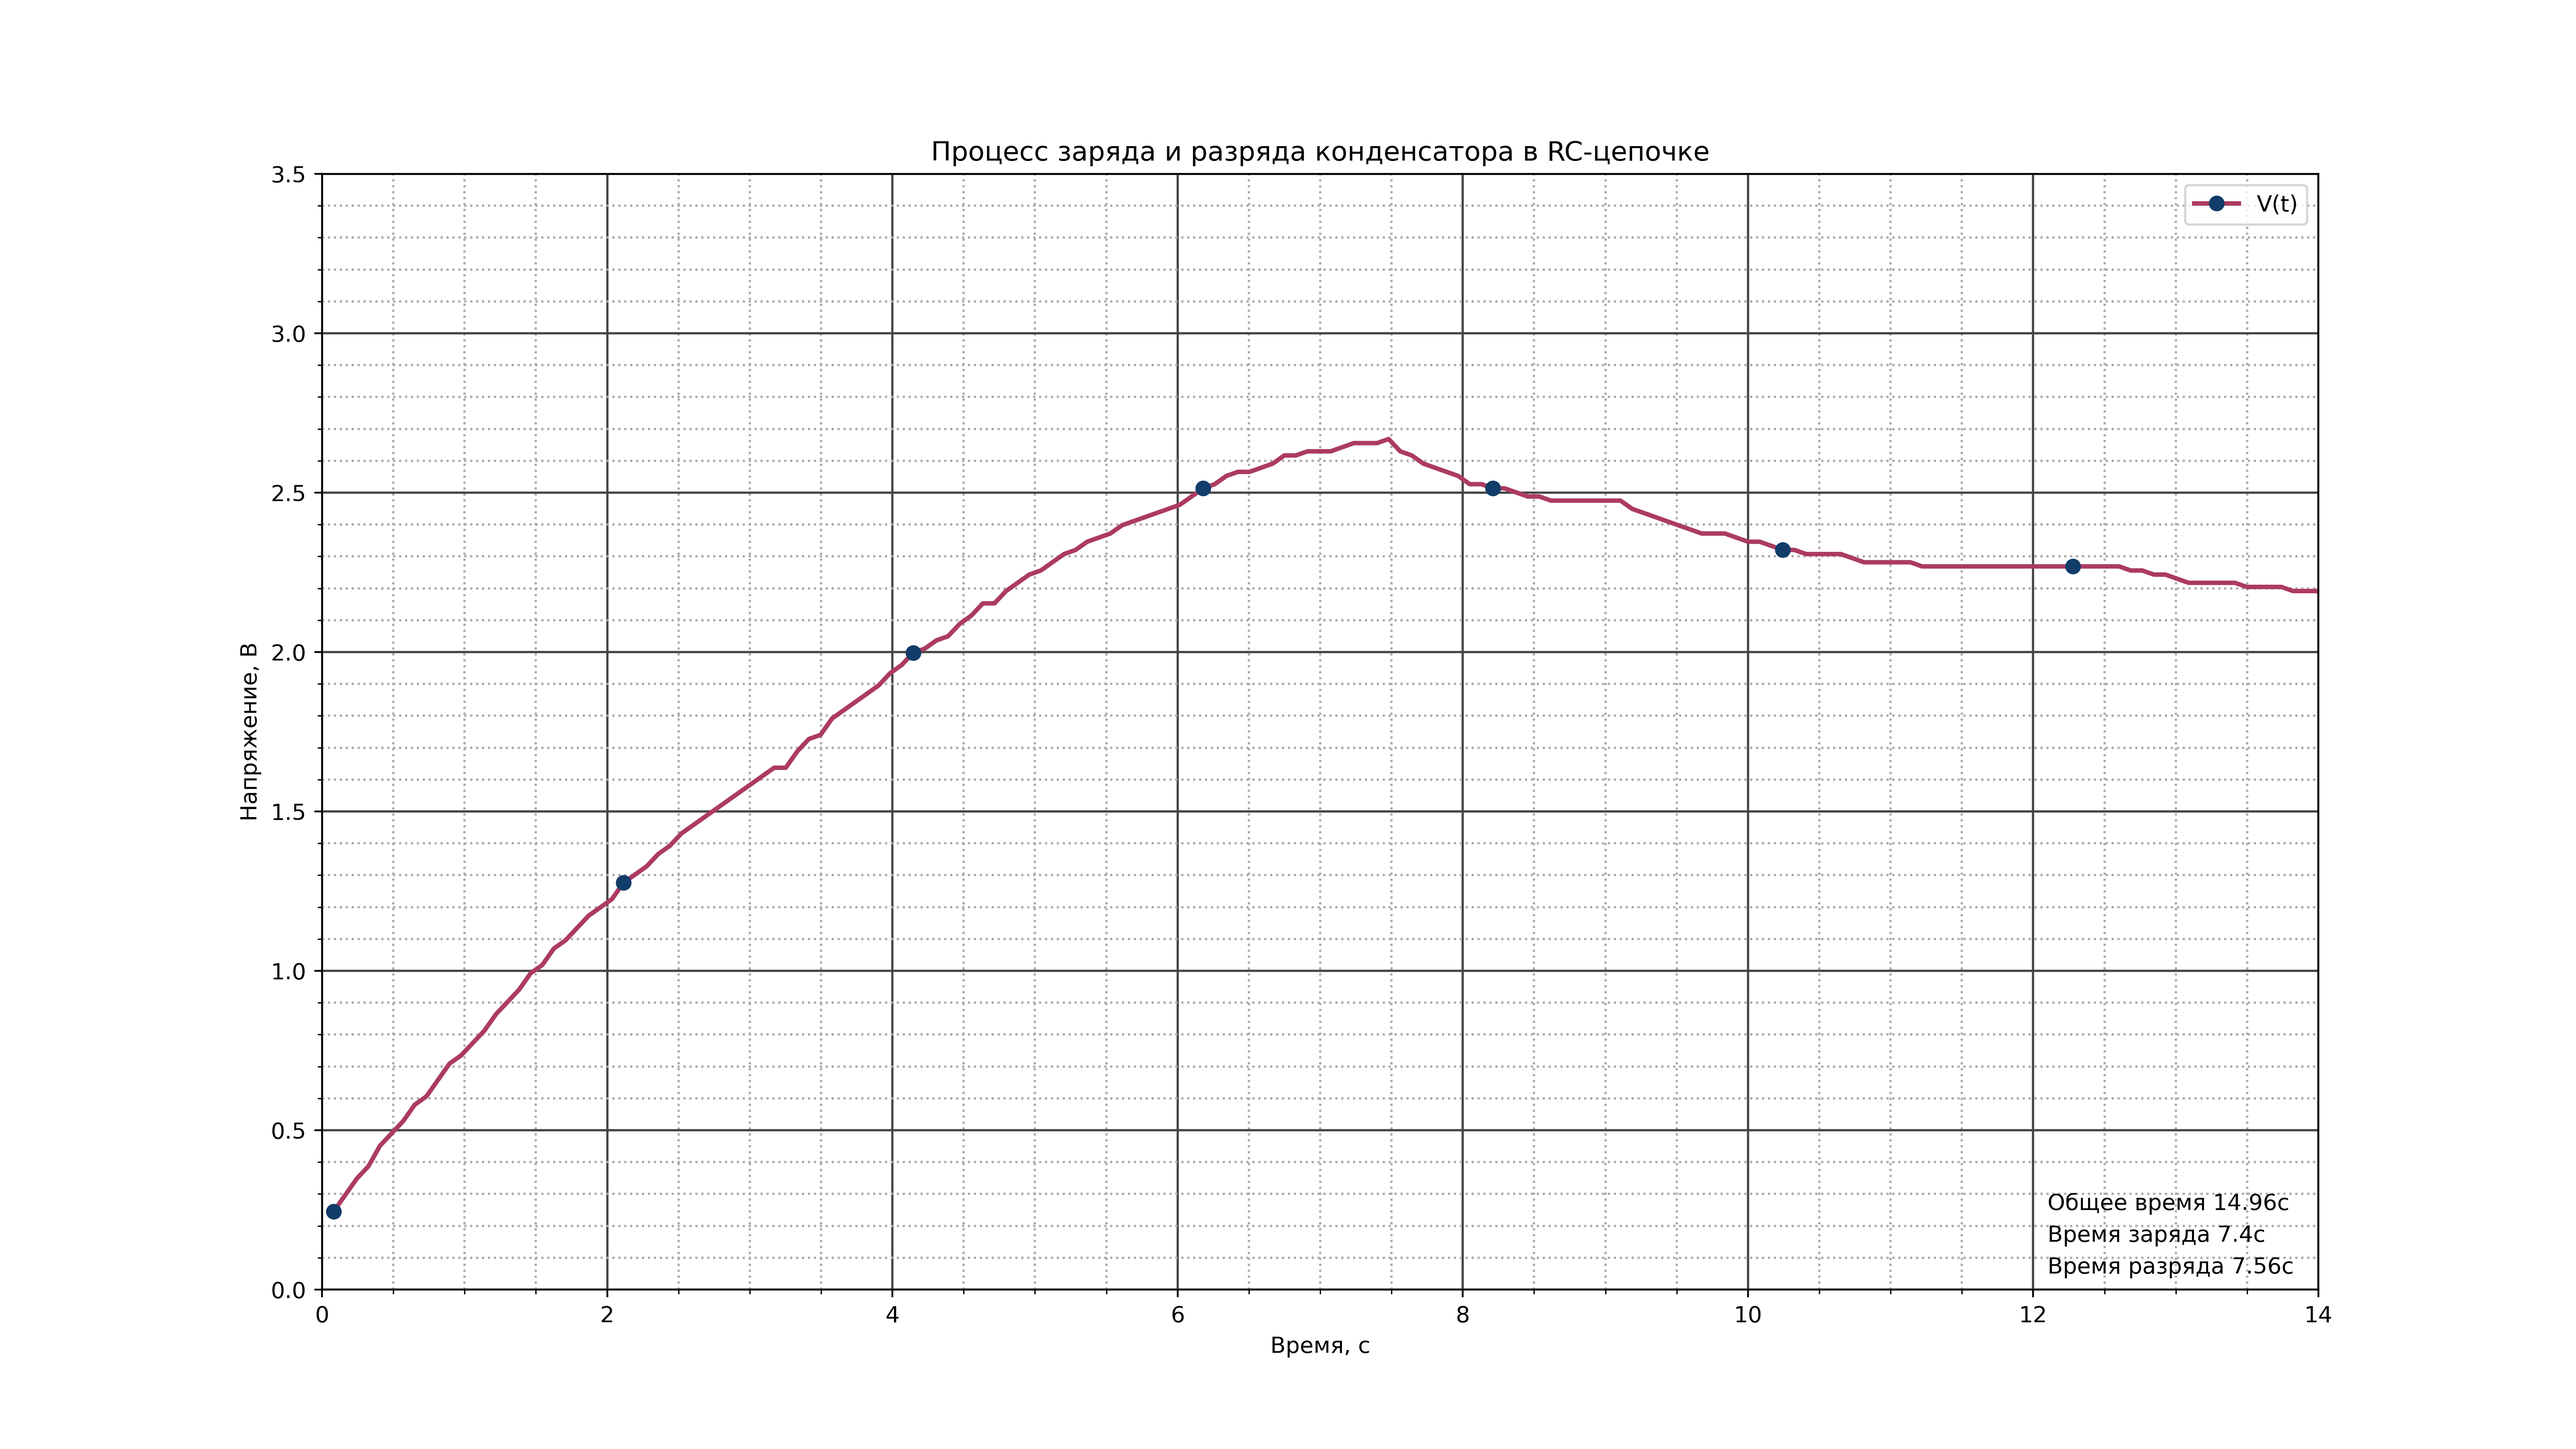
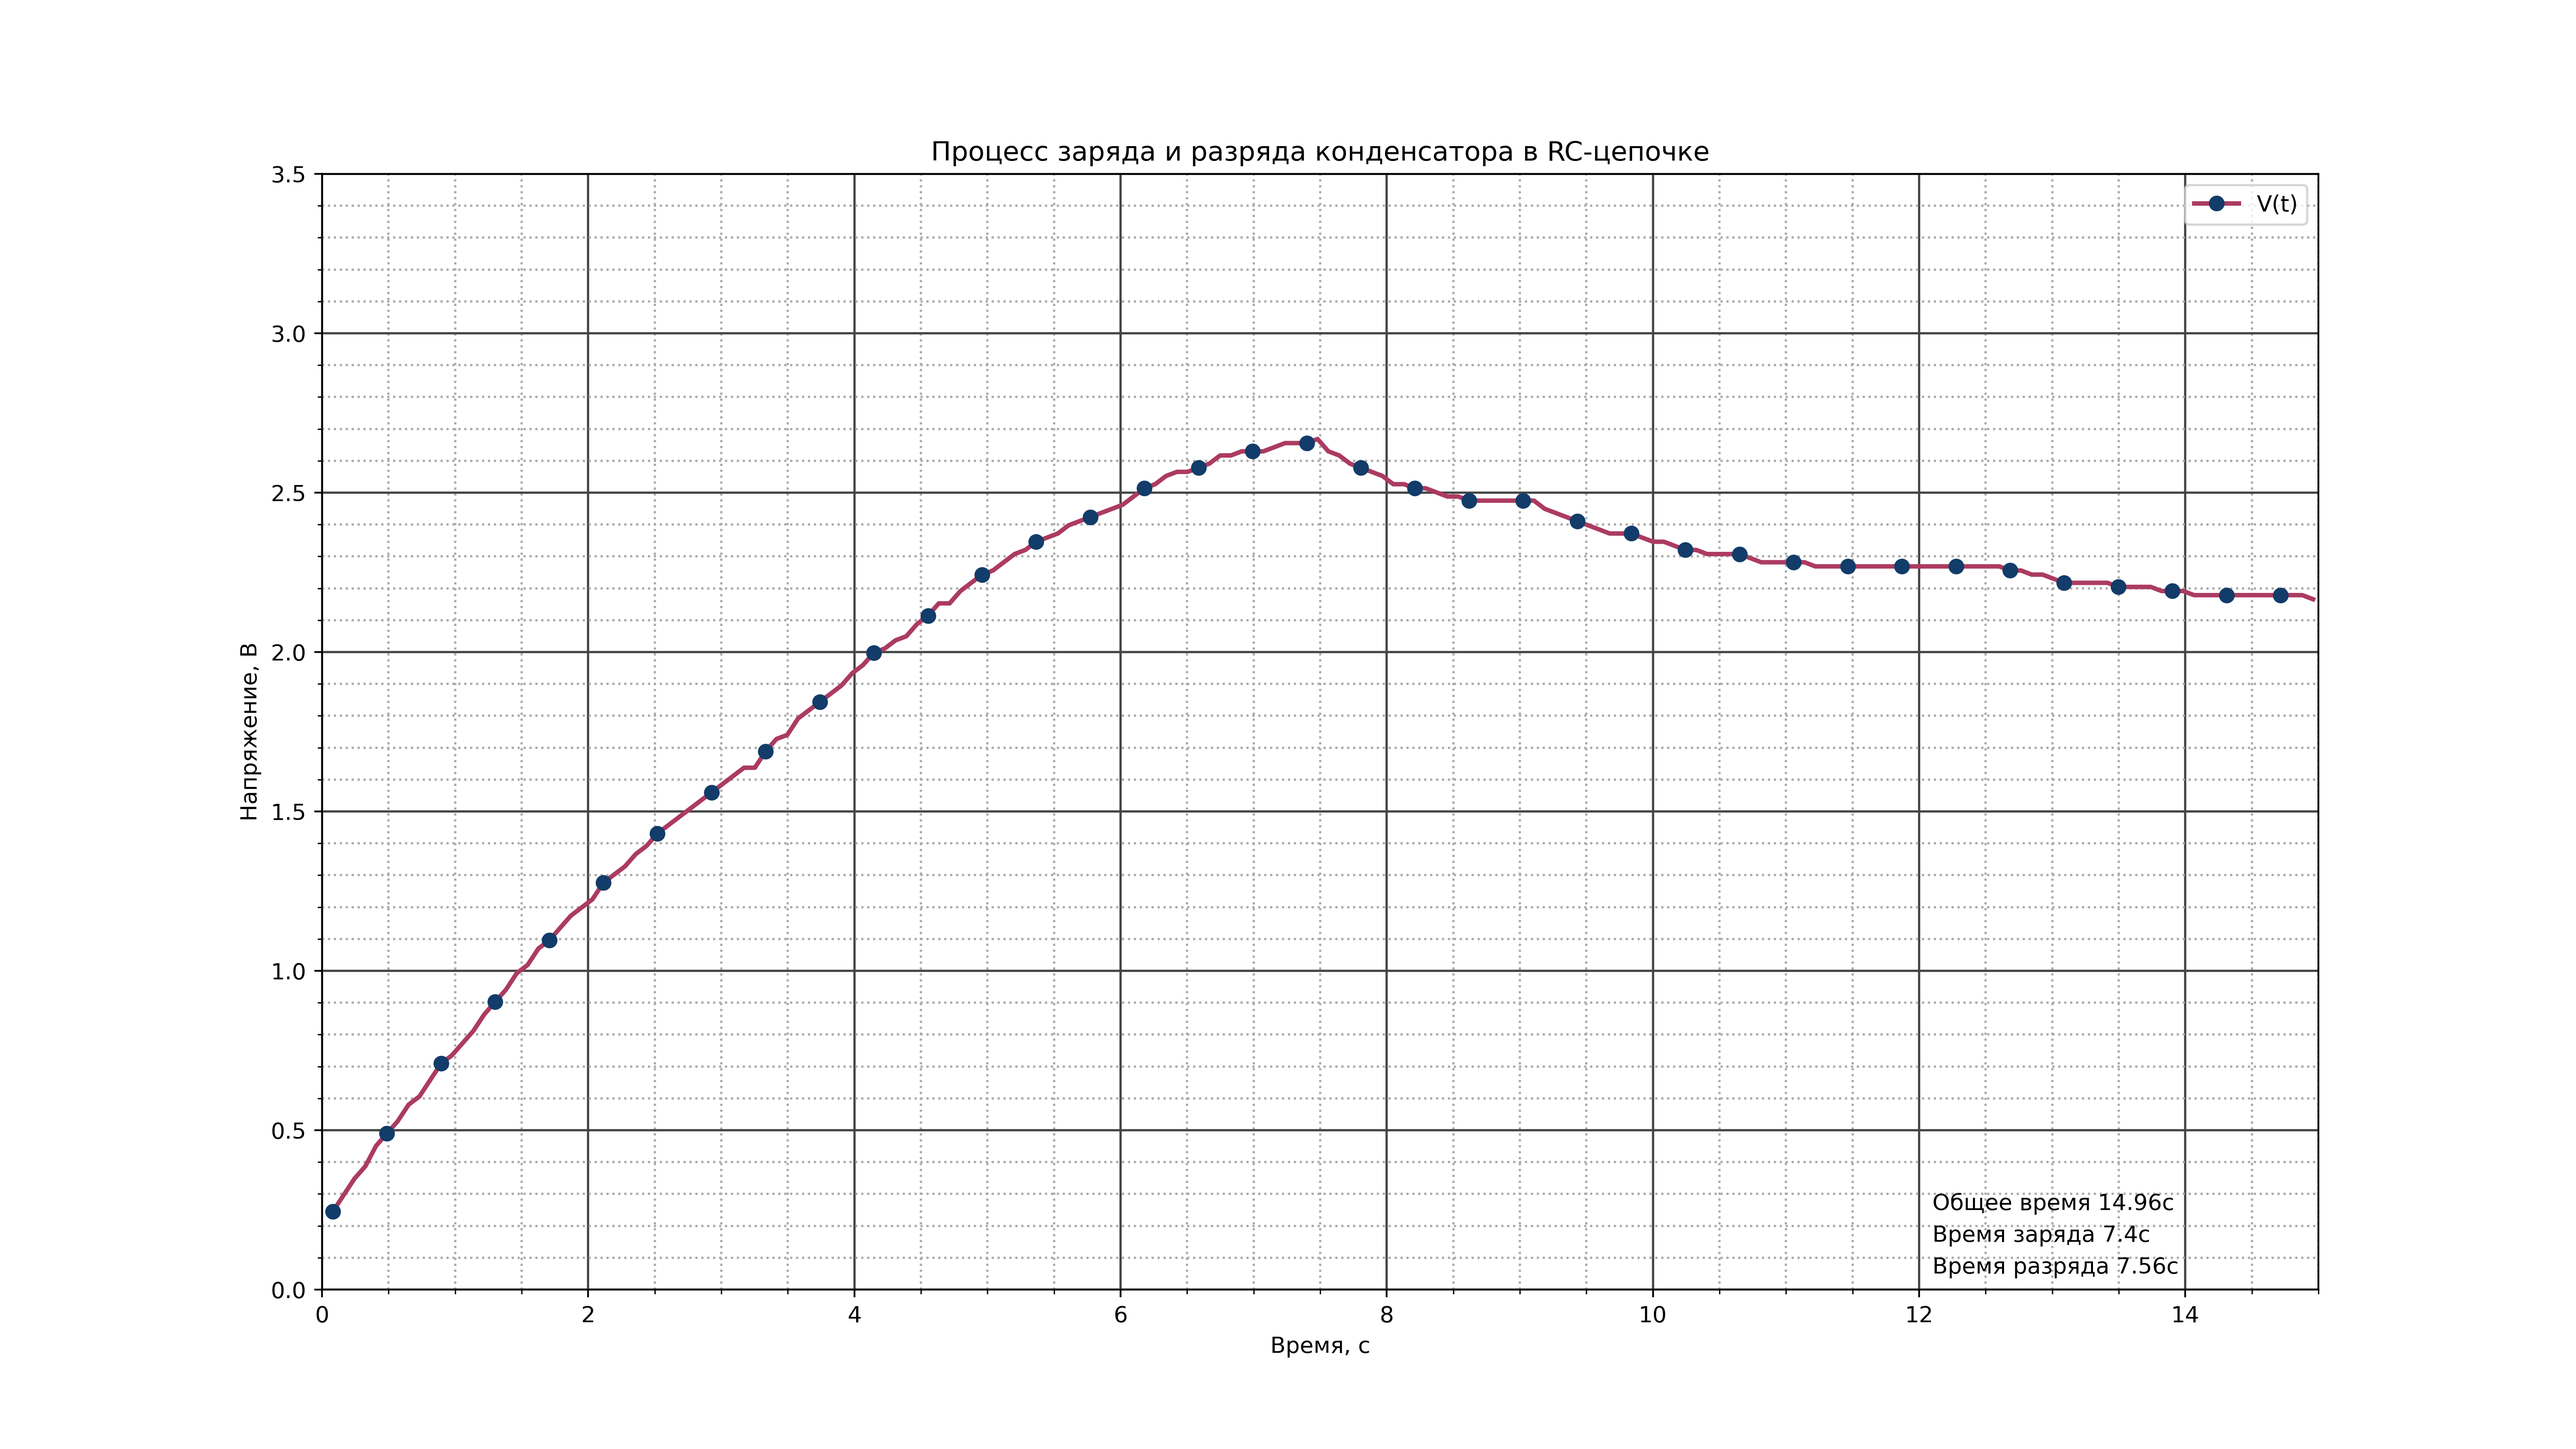
Fixed

diff --git a/task8/plt.py b/task8/plt.py
@@ -10,7 +10,7 @@ max_len_title = 50
 
 title = "Процесс заряда и разряда конденсатора в RC-цепочке"
 
-marker_frequency = 25
+marker_frequency = 5
 marker_size      = 6
 
 # Раздел с параметрами АЦП
@@ -27,7 +27,7 @@ with open("settings.txt", 'r') as file:
         except ValueError:
             pass
 
-with open('data.txt', 'r') as file:
+with open("data.txt", 'r') as file:
     data_list = []
     for line in file:
         line = line.strip()
@@ -49,9 +49,9 @@ all_time       = len(data_list) * settings_list[0]
 charge_time    = data_list.index(max(data_list)) * settings_list[0]
 discharge_time = all_time - charge_time
 
-fig, ax = plt.subplots(figsize=(width_graph, hight_graph), dpi=dpi_graph)
+fig, plt_1 = plt.subplots(figsize=(width_graph, hight_graph), dpi=dpi_graph)
 
-ax.plot(time_array, data_array,
+plt_1.plot(time_array, data_array,
         linestyle="-",
         linewidth=2,
         color="#ac3b61",
@@ -66,20 +66,20 @@ ax.plot(time_array, data_array,
 # Добавление названия графика
 title_lines = wrap(title, max_len_title)
 title_text  = '\n'.join(title_lines)
-ax.set_title(title_text, loc="center")
+plt_1.set_title(title_text, loc="center")
 
-ax.set_ylim(0, 3.5)
-ax.set_xlim(0, 14)
-ax.set_xlabel("Время, с")
-ax.set_ylabel("Напряжение, В")
+plt_1.set_ylim(0, 3.5)
+plt_1.set_xlim(0, 15)
+plt_1.set_xlabel("Время, с")
+plt_1.set_ylabel("Напряжение, В")
 
-ax.minorticks_on()
-ax.grid(which="major", color="#444", ls="-", lw=1)
-ax.grid(which="minor", color="#aaa", ls=":", lw=1)
+plt_1.minorticks_on()
+plt_1.grid(which="major", color="#444", ls="-", lw=1)
+plt_1.grid(which="minor", color="#aaa", ls=":", lw=1)
 
-ax.text(12.1, 0.25, f"Общее время {round(all_time, 2)}c")
-ax.text(12.1, 0.15, f"Время заряда {round(charge_time, 2)}c")
-ax.text(12.1, 0.05, f"Время разряда {round(discharge_time, 2)}c")
-ax.legend()
+plt_1.text(12.1, 0.25, f"Общее время {round(all_time, 2)}c")
+plt_1.text(12.1, 0.15, f"Время заряда {round(charge_time, 2)}c")
+plt_1.text(12.1, 0.05, f"Время разряда {round(discharge_time, 2)}c")
+plt_1.legend()
 
 fig.savefig("graph.png")
